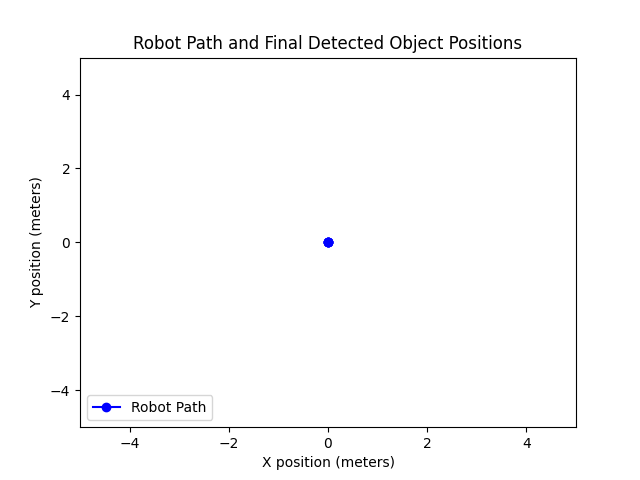
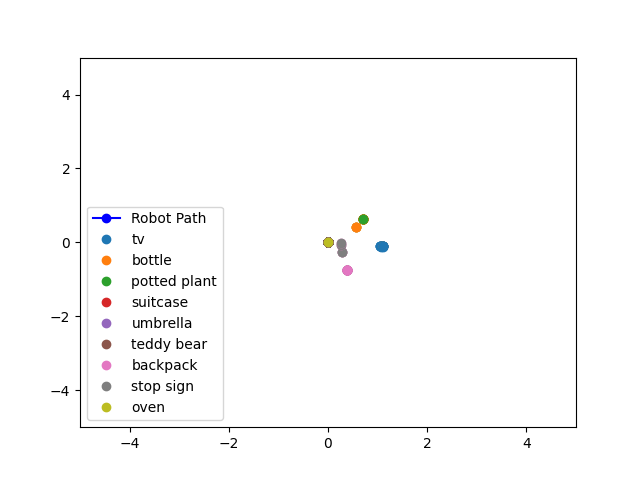
no errors

diff --git a/rb5_control/src/hw3_slam.py b/rb5_control/src/hw3_slam.py
@@ -23,7 +23,7 @@ class SlamControlNode(Node):
         # )
 
         self.ekf_state_sub = self.create_subscription(
-            Float32MultiArray, '/ekf_slam_state', '/get_EKF_state', 10
+            Float32MultiArray, '/ekf_slam_state', self.get_EKF_state, 10
         )
 
         # # Subscription to receive EKF SLAM colors
@@ -33,7 +33,7 @@ class SlamControlNode(Node):
         
         # Subscription for detected object information
         self.object_sub = self.create_subscription(
-            Float32MultiArray, '/detected_object_info', '/get_image', 10
+            Float32MultiArray, '/detected_object_info', self.get_image, 10
         )
 
         # Publisher to send updated SLAM state
@@ -43,7 +43,7 @@ class SlamControlNode(Node):
         # self.EKF_predict_pub = self.create_publisher(Float32MultiArray, '/ekf_predict', 10)
 
         
-        self.objects_to_detect = ['tv', 'bottle', 'potted plant', 'suitcase', 'umbrella', 'teddy bear', 'backpack', 'stop sign', 'oven', 'airplane']
+        self.objects_to_detect = ['tv', 'bottle', 'potted plant', 'suitcase', 'umbrella', 'teddy bear', 'backpack', 'stop sign']
         # self.ekf_slam = EKFSLAM(self.objects_to_detect)
         self.fig, self.ax = plt.subplots()
         self.set_plot_limits()
@@ -59,6 +59,8 @@ class SlamControlNode(Node):
 
     def get_EKF_state(self, msg):
         self.state = msg.data
+        round(self.state[0], 1)
+        round(self.state[1], 1)
         print('\n\n\n state: ', self.state, '\n\n\n')
         print('\n\n\n msg: ', msg.data, '\n\n\n')
         
@@ -81,14 +83,14 @@ class SlamControlNode(Node):
 
     def object_callback(self):
         distance, angle, obj_index = self.image
-        robot_x, robot_y, theta = self.state[0][0], self.state[1][0], self.state[2][0]
+        robot_x, robot_y, theta = self.state[0], self.state[1], self.state[2]
         obj_x = robot_x + distance * np.cos(theta + angle)
         obj_y = robot_y + distance * np.sin(theta + angle)
 
         # Update EKF with the world-frame coordinates of the detected object
         # self.ekf_slam.update((obj_x, obj_y), int(obj_index))
         state_msg = Float32MultiArray()
-        state_msg.data = [obj_x, obj_y, float(self.objects_to_detect[obj_index])]
+        state_msg.data = [obj_x, obj_y, obj_index]
         self.object_pub.publish(state_msg)
 
         object_name = self.objects_to_detect[int(obj_index)]
@@ -253,13 +255,13 @@ def main(args=None):
 
     # TRY 1
     # # Square movement
-    for _ in range(1):
-        for _ in range(4):  # Stop every 0.5 meters
-            print("SLAM loop")
-            node.spin_and_track('move', 0.5)
-            time.sleep(1)
-        node.spin_and_track('spin', 90)
-        time.sleep(1)
+    # for _ in range(1):
+    #     for _ in range(4):  # Stop every 0.5 meters
+    #         print("SLAM loop")
+    #         node.spin_and_track('move', 0.5)
+    #         time.sleep(1)
+    #     node.spin_and_track('spin', 90)
+    #     time.sleep(1)
 
     # node.spin_and_track('move', 0.5)
     # time.sleep(1)

diff --git a/rb5_control/src/hw3_ekf.py b/rb5_control/src/hw3_ekf.py
@@ -219,7 +219,7 @@ class EKFSLAM(Node):
     
 def main(args=None):
     rclpy.init(args=args)
-    node = EKFSLAM(object_list=['tv', 'bottle', 'potted plant', 'suitcase', 'umbrella', 'teddy bear', 'backpack', 'stop sign', 'oven'])
+    node = EKFSLAM(object_list=['tv', 'bottle', 'potted plant', 'suitcase', 'umbrella', 'teddy bear', 'backpack', 'stop sign'])
     print("EKF running...")
     try:
         rclpy.spin(node)
